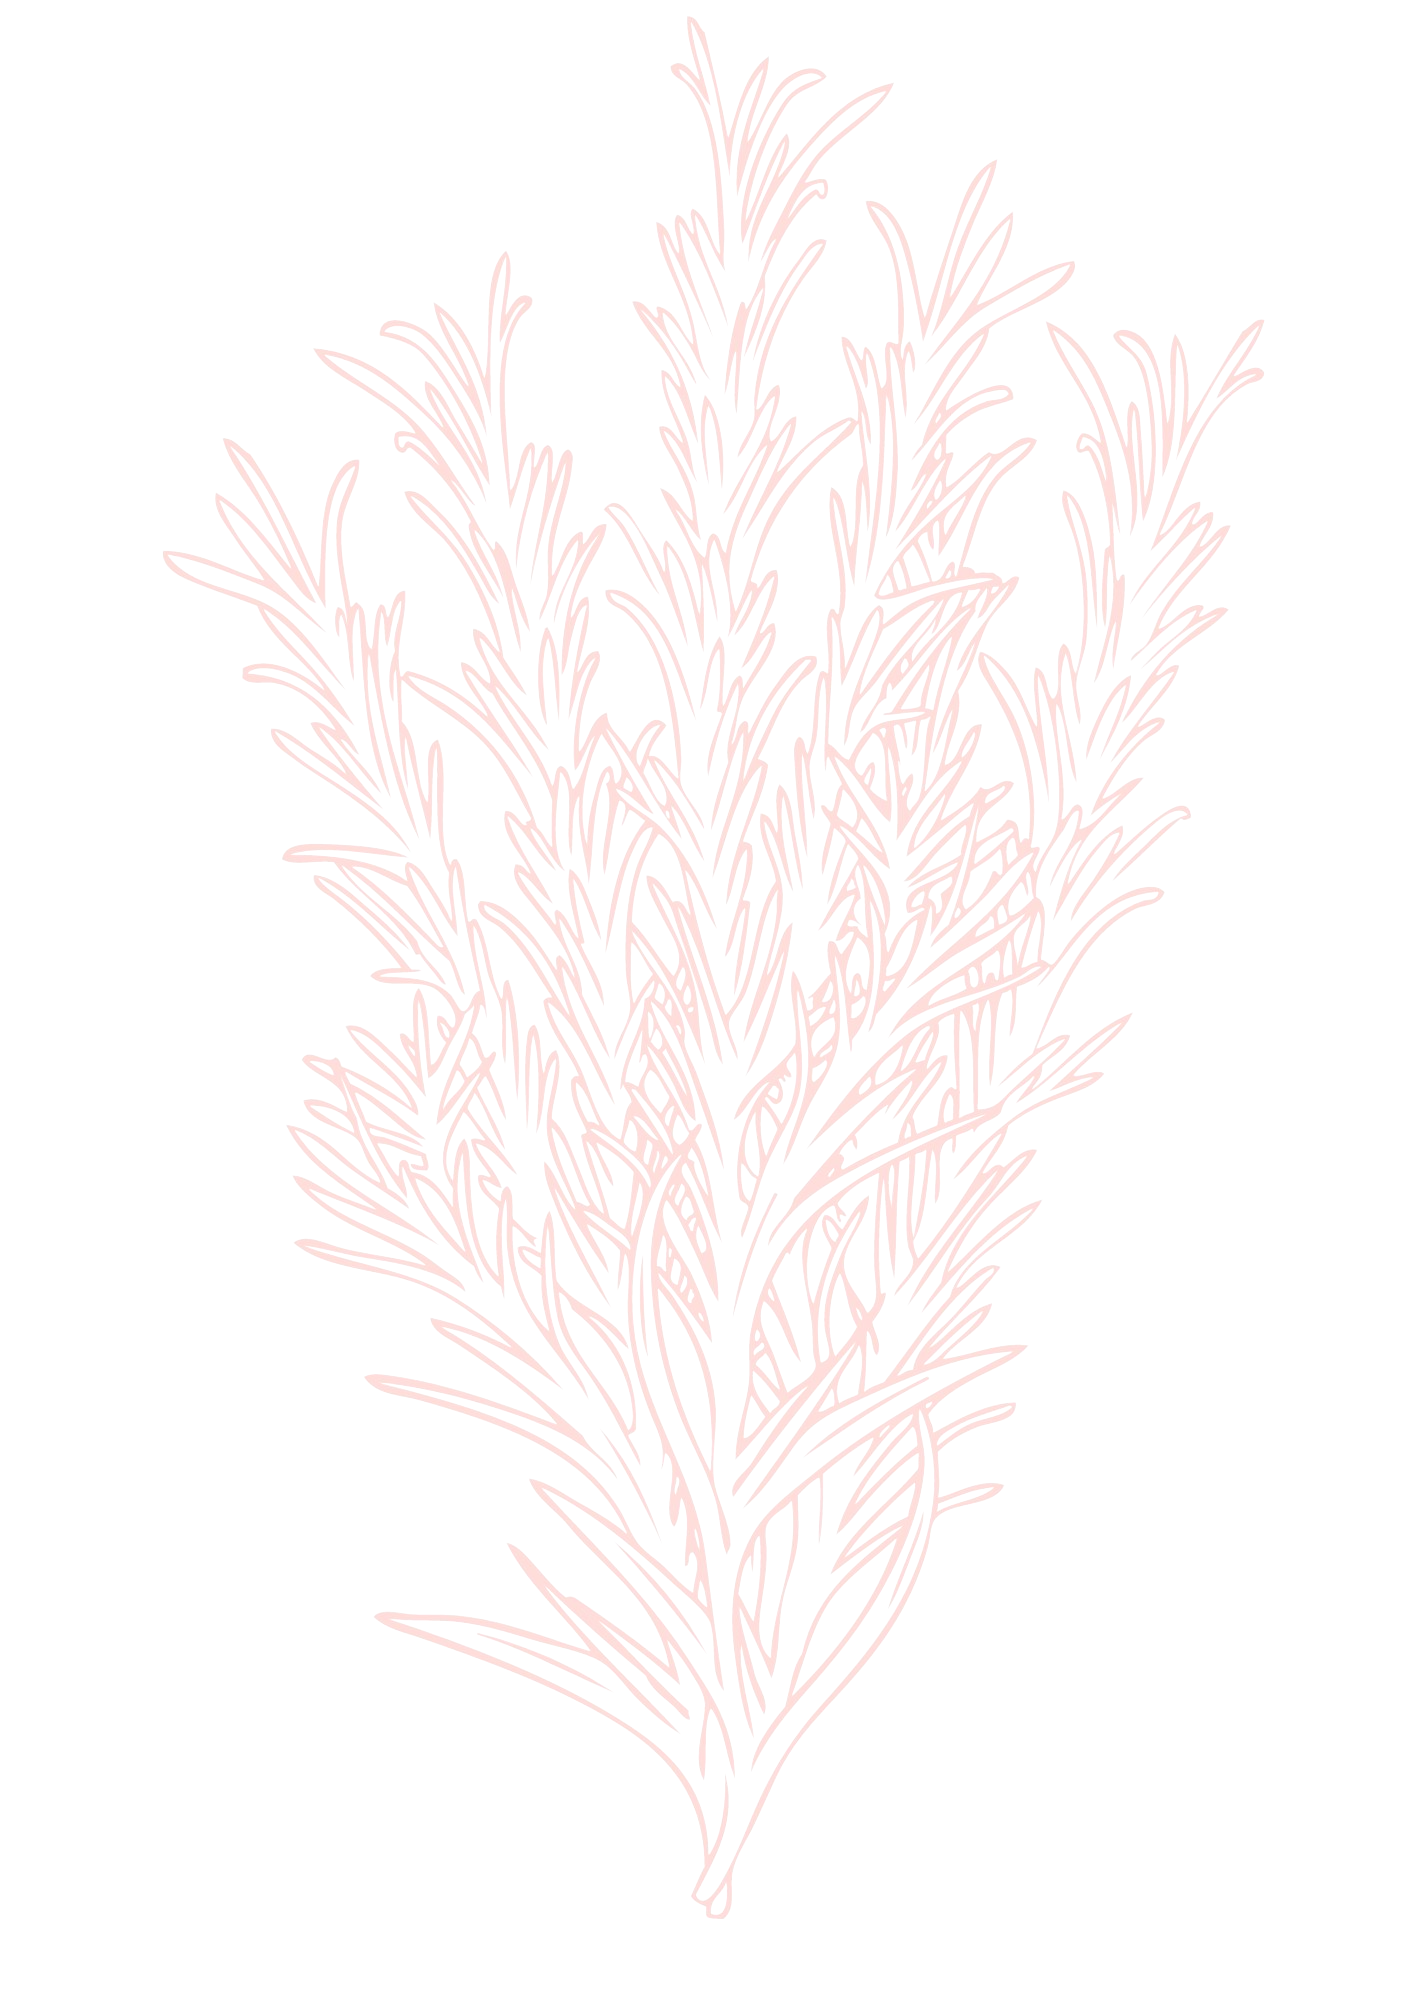
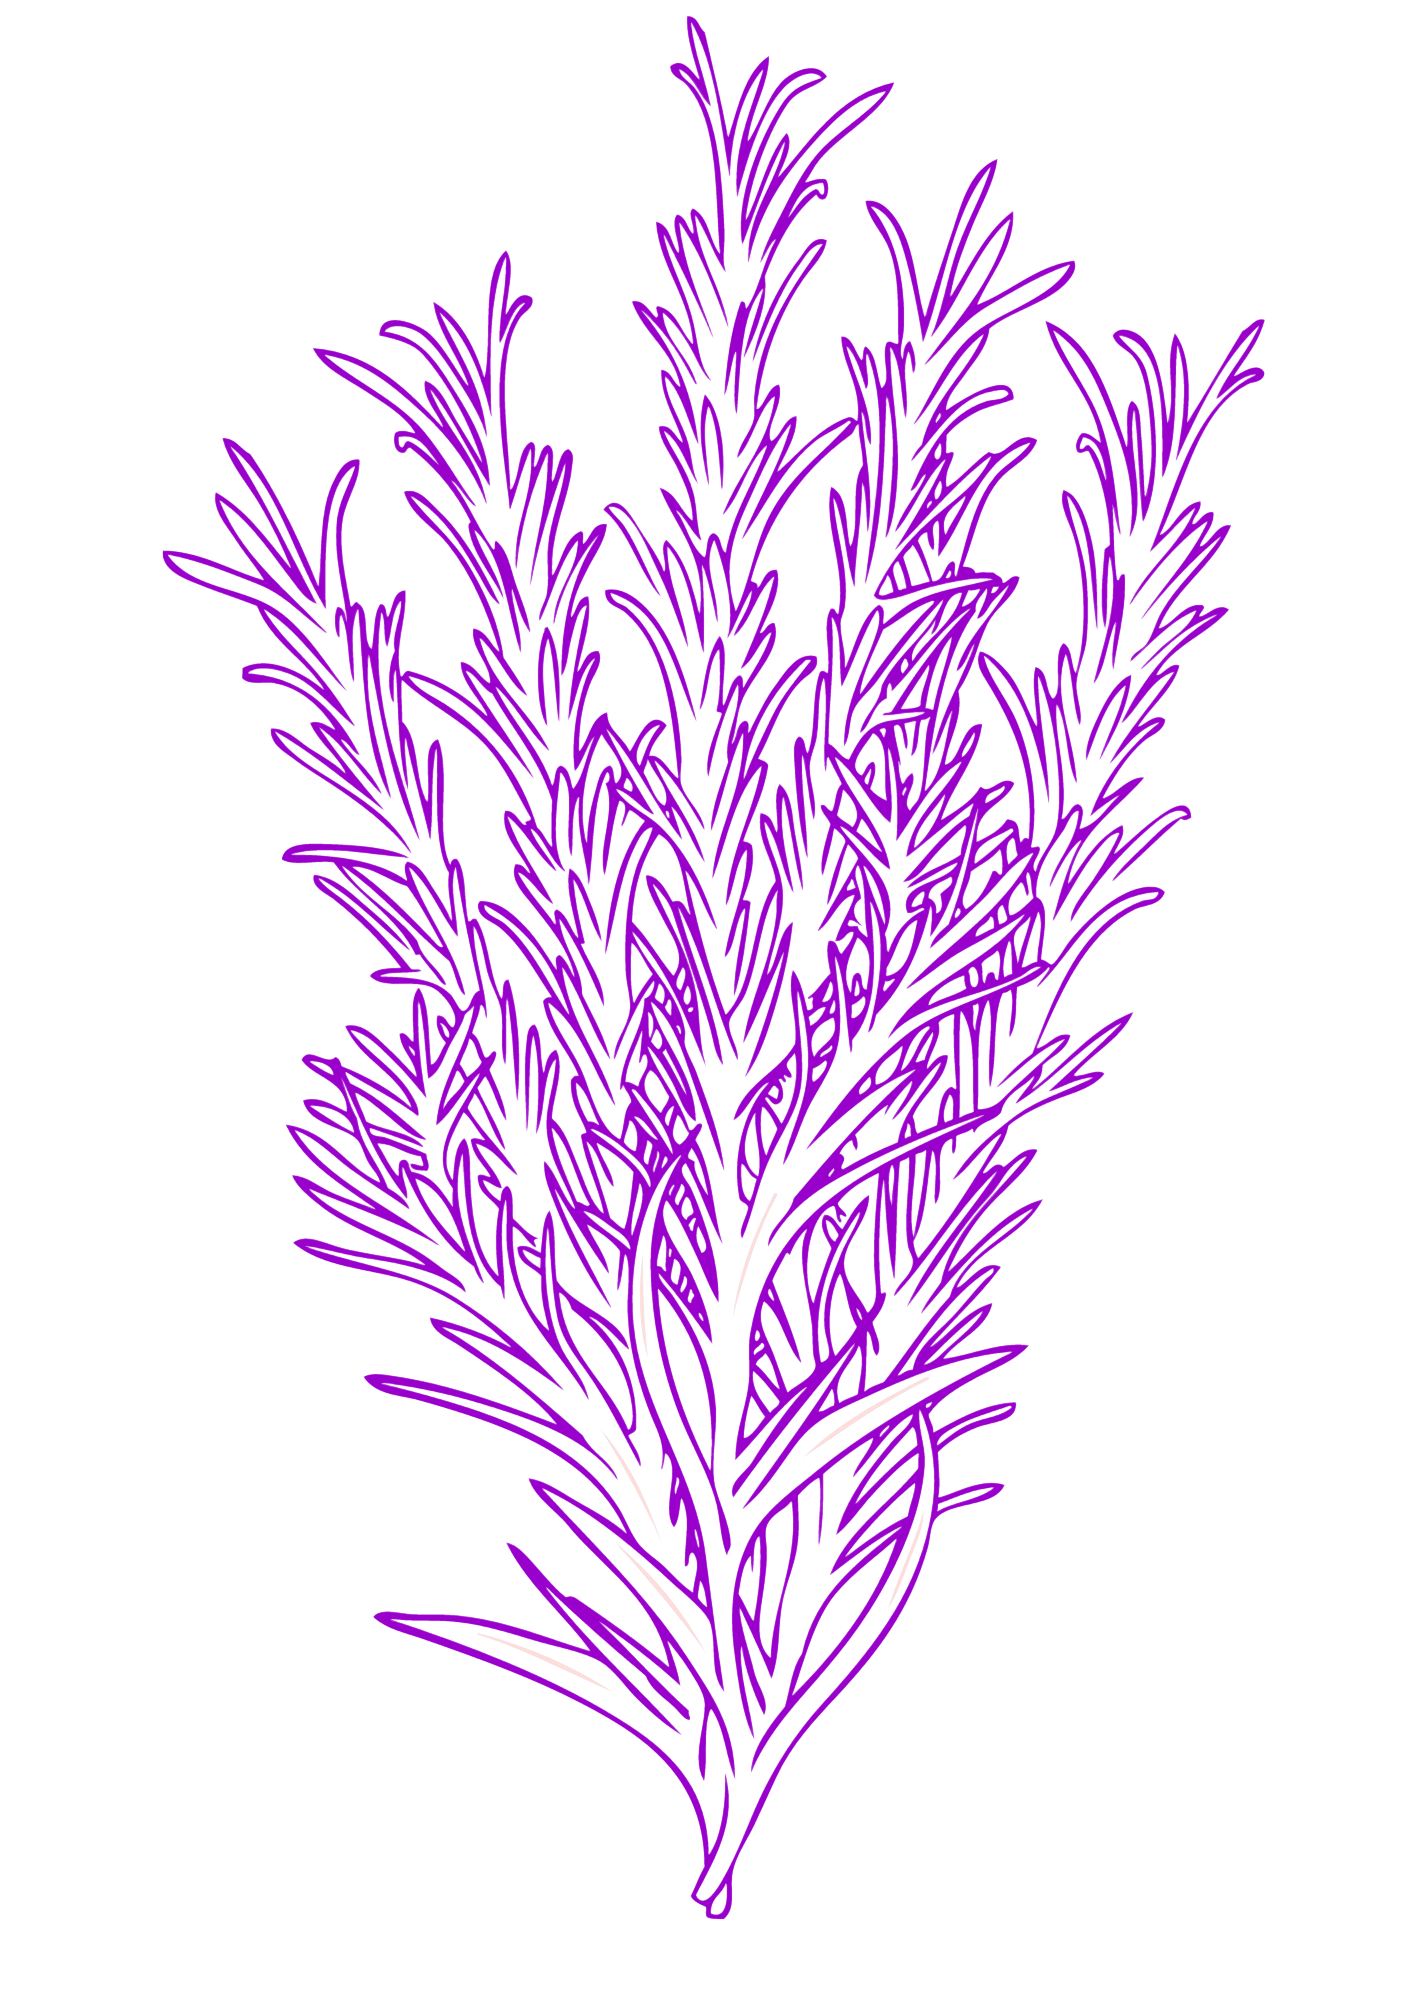
customização das cores

Changed region(s): [[0.1245, 0.0, 0.9024, 0.961]]

diff --git a/public/css/style.css b/public/css/style.css
@@ -14,8 +14,8 @@ body{
     align-items: center;
     justify-content: center;
     width: 100%;
-    background: rgb(112,9,121);
-    background: linear-gradient(-45deg,rgba(0,212,255,1)  19%, rgba(191,200,212,1) 39%, rgba(112,9,121,1) 100%);
+    background: rgb(115,3,192);
+    background:linear-gradient(-45deg, rgba(168,70,235,1) 0%, rgba(215,183,237,1) 22%, rgba(255,255,255,1) 99%, rgba(255,255,255,1) 100%, rgba(255,255,255,1) 100%, rgba(255,255,255,1) 100%);
     display: flex;
     flex-direction: column;
     align-items: center;
@@ -194,7 +194,7 @@ body{
     font-weight: 500;
     letter-spacing: 1px;
     border-radius: 6px;
-    background-color: #f440af;
+    background-color: #7303c0;
     cursor: pointer;
     transition: all 0.3s ease;
 }

diff --git a/public/css/dificuldade.css b/public/css/dificuldade.css
@@ -3,7 +3,8 @@
     padding: 0;
 }
 body{
-    background: rgba(90, 34, 248, 0.5);
+    background: linear-gradient(-45deg,rgba(0,212,255,1)  19%, rgba(112,9,121,1) 39%, rgba(191,200,212,1) 100%);
+    background-attachment: fixed;
     overflow-y: hidden;
 }
 div{

diff --git a/App/views/users/login.php b/App/views/users/login.php
@@ -20,7 +20,7 @@
 
                 <form action="#">
                     <div class="input-field">
-                        <input type="text" placeholder=" email" required id="email_login">
+                        <input type="text" placeholder=" E-mail" required id="email_login">
                         <i class="uil uil-envelope icon"></i>
                     </div>
                     <div class="input-field">
@@ -38,9 +38,9 @@
                         <a href="#" class="text">Esqueceu sua senha?</a>
                     </div>
                     <label for="">Escolha</label><br>
-                    <label>usuário</label>
+                    <label>Usuário</label>
                     <input type="radio" name="perfilCliente" id="radio_user">
-                    <label>familiar</label>
+                    <label>Familiar</label>
                     <input type="radio" name="perfilCliente" id="opcao1">
                         
                     <div class="input-field button">
@@ -49,7 +49,7 @@
                 </form>
 
                 <div class="login-signup">
-                    <span class="text">ainda não é um membro?
+                    <span class="text">Ainda não é um membro?
                         <a href="#" class="text signup-link">Cadastre-se</a>
                     </span>
                 </div>
@@ -79,7 +79,7 @@
                         <i class="uil uil-lock icon"></i>
                     </div>
                     <div class="input-field">
-                        <input type="password" class="password" placeholder="Confirmar senha" id="senha2_cadastro" required>
+                        <input type="password" class="password" placeholder="Confirmar Senha" id="senha2_cadastro" required>
                         <i class="uil uil-lock icon"></i>
                         <i class="uil uil-eye-slash showHidePw"></i>
                     </div>

diff --git a/public/css/home.php b/public/css/home.php
@@ -62,8 +62,9 @@ body {
 .header-wrapper {
     height: 100vh;
     width: 100%;
-    background: rgb(112,9,121);
-    background: linear-gradient(-45deg,rgba(0,212,255,1)  19%, rgba(191,200,212,1) 39%, rgba(112,9,121,1) 100%);
+  
+    background:linear-gradient(-45deg, rgba(168,70,235,1) 0%, rgba(215,183,237,1) 22%, rgba(255,255,255,1) 99%, rgba(255,255,255,1) 100%, rgba(255,255,255,1) 100%, rgba(255,255,255,1) 100%);
+    background-attachment: fixed;
     background-size: 400% 400%;
     display: flex;
     flex-direction: column;
@@ -100,12 +101,14 @@ body {
 h1 {
     text-transform: uppercase;
     letter-spacing: 4px;
+    color:#7303c0;
    
 }
 
 h2 {
     text-transform: uppercase;
     letter-spacing: 2px;
+    color:#7303c0;
     
 }
 
@@ -119,10 +122,10 @@ h2 {
 .social-media a {
     
     text-decoration: none;
-    color: #fff;
+    color: #7303c0;
     font-size: 24px;
     padding: 1rem 4rem;
-    border: 1px solid #fff;
+    border: 1px solid #7303c0;
     min-width: 4rem;
     display: flex;
     justify-content: center;

diff --git a/public/css/editar.php b/public/css/editar.php
@@ -5,8 +5,8 @@ body
 {
     magin:0;
     padding:0;
-    background: rgb(112,9,121);
-    background: linear-gradient(-45deg,rgba(0,212,255,1)  19%, rgba(191,200,212,1) 39%, rgba(112,9,121,1) 100%);
+    background: rgb(115,3,192);
+background: linear-gradient(90deg, rgba(115,3,192,1) 5%, rgba(236,56,188,1) 25%, rgba(255,255,255,1) 100%, rgba(255,255,255,1) 100%, rgba(255,255,255,1) 100%);
     background-attachment: fixed;
     background-repeat: no-repeat;
     background-size: cover;
